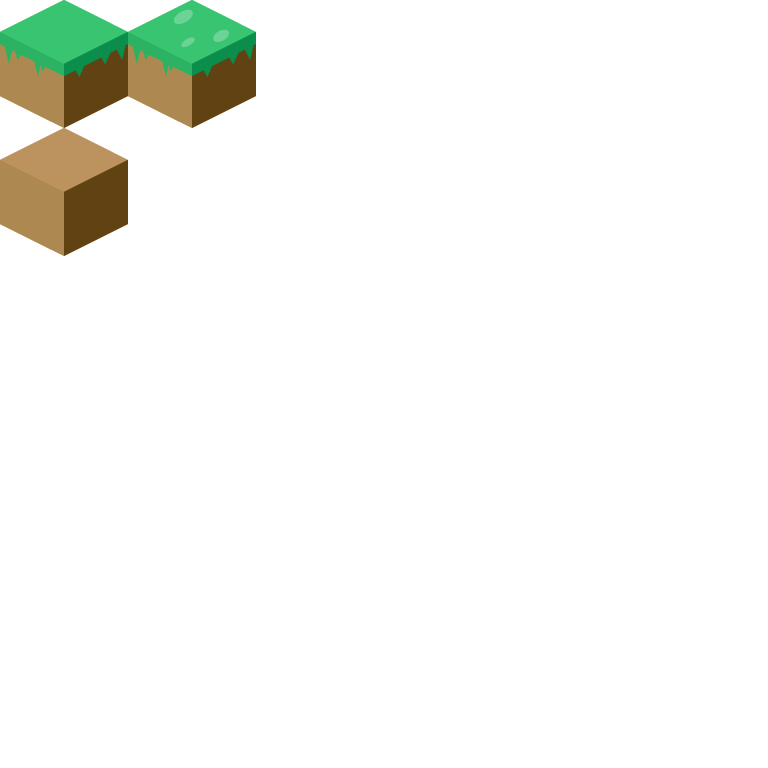
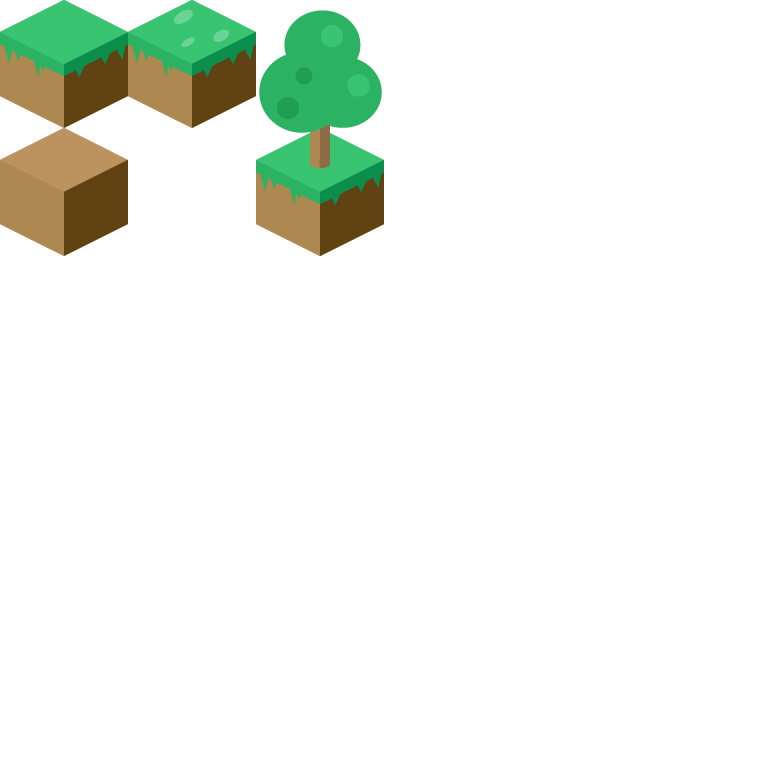
last verison

Changed region(s): [[0.3125, 0.0, 0.5, 0.3438]]

diff --git a/src/classes/game.js b/src/classes/game.js
@@ -16,6 +16,7 @@ class Game {
         this.mousePos = {x: 0, y: 0};
         this.hoverBlock = null;
         this.debug = false;
+        this.destinationBlock = null;
     }
 
     init() {
@@ -56,72 +57,75 @@ class Game {
 
     moveCharacterTo(destinationBlock) {
         
-        if (destinationBlock) {
-            const grid = [];
-            for (let i = 0; i < this.board.size.tile.w; i++) {
-                const row = [];
-                for (let j = 0; j < this.board.size.tile.h; j++) {
+        this.destinationBlock = destinationBlock;
+        if (this.character.path.length > 0) {
+            this.character.waitUntilNextBlock = true;
+        } else {
+            if (this.destinationBlock) {
+                const grid = [];
+                for (let i = 0; i < this.board.size.tile.w; i++) {
+                    const row = [];
+                    for (let j = 0; j < this.board.size.tile.h; j++) {
 
-                    let collides = false;
-                    let l = this.board.groundLayer;
-                    /*while (!collides && l < this.board.nbLayers) {
+                        let collides = false;
+                        let l = this.board.groundLayer;
+                        /*while (!collides && l < this.board.nbLayers) {
+                            if (this.board.grid[l][i][j] && this.board.grid[l][i][j].collides) {
+                                collides = true;
+                            } else {
+                                l++;
+                            }
+                        }*/
                         if (this.board.grid[l][i][j] && this.board.grid[l][i][j].collides) {
                             collides = true;
-                        } else {
-                            l++;
                         }
-                    }*/
-                    if (this.board.grid[l][i][j] && this.board.grid[l][i][j].collides) {
-                        collides = true;
+
+                        if (collides) {
+                            row.push(0);
+                        } else {
+                            row.push(1);
+                        }
+                        
+                    }
+                    grid.push(row);
+                }
+                console.log(grid)
+
+                const graph = new Graph(grid);
+                const start = graph.grid[this.character.block.i][this.character.block.j];
+                const end = graph.grid[this.destinationBlock.i][this.destinationBlock.j];
+
+                const path = [];
+                const result = astar.search(graph, start, end);
+                let prevStep = {x: this.character.block.i, y: this.character.block.j};
+                result.forEach((step) => {
+
+                    let direction = '';
+                    if (step.x === prevStep.x) {
+                        if (prevStep.y < step.y) {
+                            direction = 'down-left'
+                        } else if (prevStep.y > step.y) {
+                            direction = 'up-right';
+                        }
+                    } else if (step.y === prevStep.y) {
+                        if (prevStep.x > step.x) {
+                            direction = 'up-left';
+                        } else if (prevStep.x < step.x) {
+                            direction = 'down-right';
+                        }
                     }
 
-                    if (collides) {
-                        row.push(0);
-                    } else {
-                        row.push(1);
-                    }
-                    
-                }
-                grid.push(row);
+                    path.push({
+                        direction: direction,
+                        i: step.x, j: step.y
+                    });
+
+                    prevStep = step;
+                })
+                this.character.path = path;
+                console.log('[GAME] START BLOCK', this.character.block)
+                console.log('[GAME] PATH', this.character.path)
             }
-            console.log(grid)
-
-            const graph = new Graph(grid);
-            const start = graph.grid[this.character.block.i][this.character.block.j];
-            const end = graph.grid[destinationBlock.i][destinationBlock.j];
-
-            const path = [];
-            const result = astar.search(graph, start, end);
-            let prevStep = {x: this.character.block.i, y: this.character.block.j};
-            result.forEach((step) => {
-
-                let direction = '';
-                if (step.x === prevStep.x) {
-                    console.log('SAME I')
-                    if (prevStep.y < step.y) {
-                        direction = 'down-left'
-                    } else if (prevStep.y > step.y) {
-                        direction = 'up-right';
-                    }
-                } else if (step.y === prevStep.y) {
-                    console.log('SAME J')
-                    if (prevStep.x > step.x) {
-                        direction = 'up-left';
-                    } else if (prevStep.x < step.x) {
-                        direction = 'down-right';
-                    }
-                }
-
-                path.push({
-                    direction: direction,
-                    i: step.x, j: step.y
-                });
-
-                prevStep = step;
-            })
-            this.character.path = path;
-            console.log('[GAME] START BLOCK', this.character.block)
-            console.log('[GAME] PATH', this.character.path)
         }
 
     }

diff --git a/src/classes/character.js b/src/classes/character.js
@@ -34,6 +34,7 @@ class Character {
         this.path = [];
         this.step = 0;
         this.speed = 2;
+        this.waitUntilNextBlock = false;
     }
 
     init() {
@@ -73,7 +74,6 @@ class Character {
                 y: endBlock.y + this.game.board.tileSize.h/4
             };
 
-            //console.log(this.step, step);
             switch (step.direction) {
                 case 'down-right':
                     console.log('[CHARACTER] Go down right')
@@ -102,12 +102,19 @@ class Character {
             }
 
             if (this.x === endPos.x && this.y === endPos.y) {
-                this.step++;
-                if (this.step === this.path.length) {
+                if (this.waitUntilNextBlock) {
                     this.path = [];
                     this.step = 0;
-                    console.log('OWARI')
+                    this.game.moveCharacterTo(this.game.destinationBlock);
+                } else {
+                    this.step++;
+                    if (this.step === this.path.length) {
+                        this.path = [];
+                        this.step = 0;
+                        console.log('OWARI')
+                    }
                 }
+                
                 
             }
             

diff --git a/src/classes/board.js b/src/classes/board.js
@@ -134,6 +134,15 @@ class Board {
         this.grid[2][2][5].collides = true;
 
 
+        this.grid[1][4][1].tile = {i: 2, j: 1};
+        this.grid[1][4][1].collides = true;
+        this.grid[2][3][0].tile = {i: 2, j: 0};
+
+        this.grid[1][8][1].tile = {i: 2, j: 1};
+        this.grid[1][8][1].collides = true;
+        this.grid[2][7][0].tile = {i: 2, j: 0};
+
+
         console.log('[BOARD] GRID', this.grid)
 
     }
